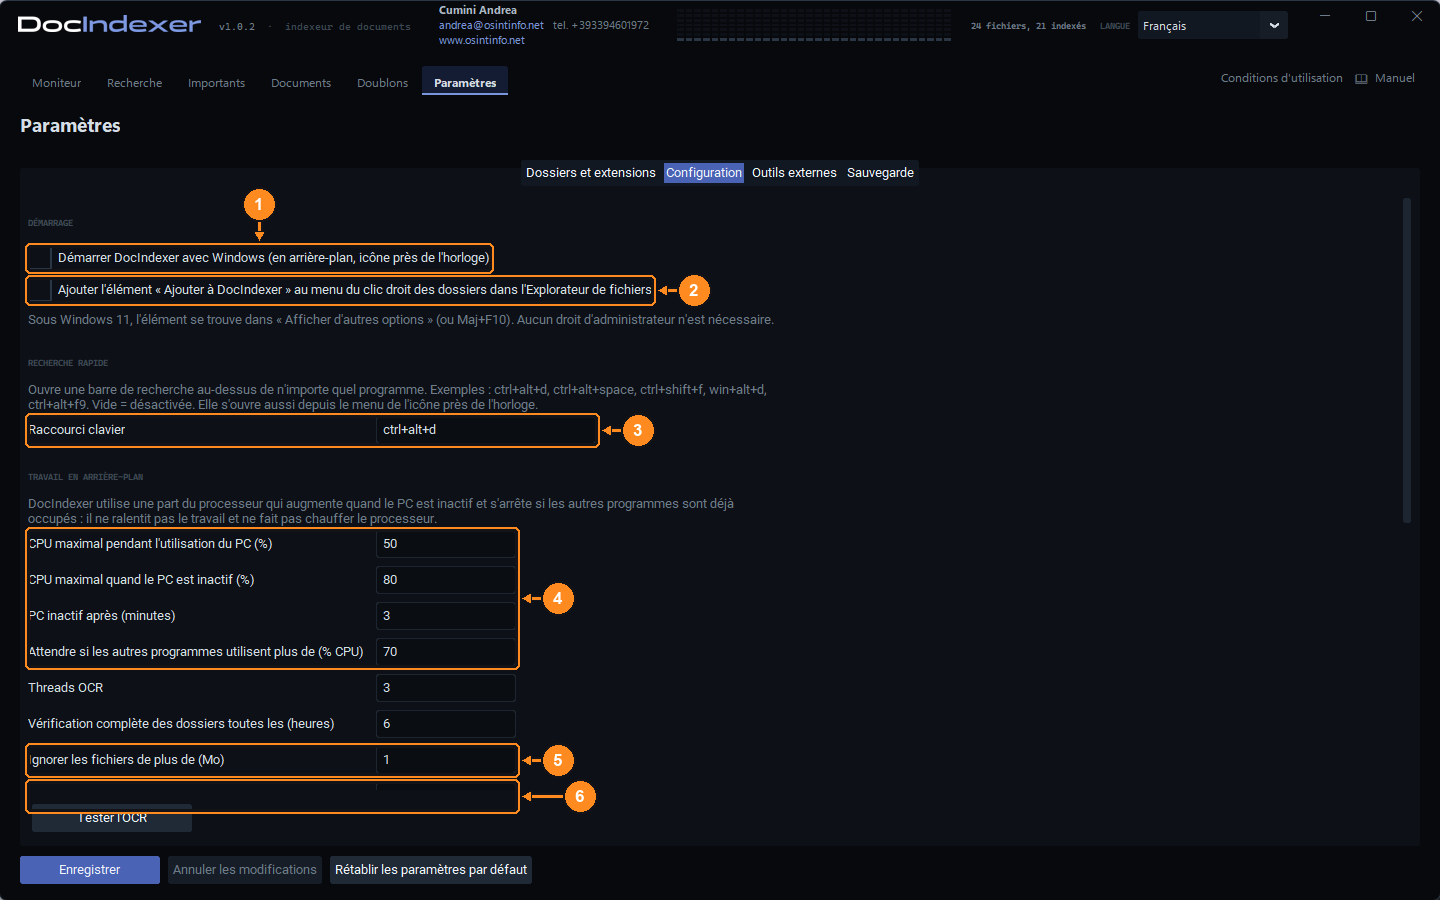
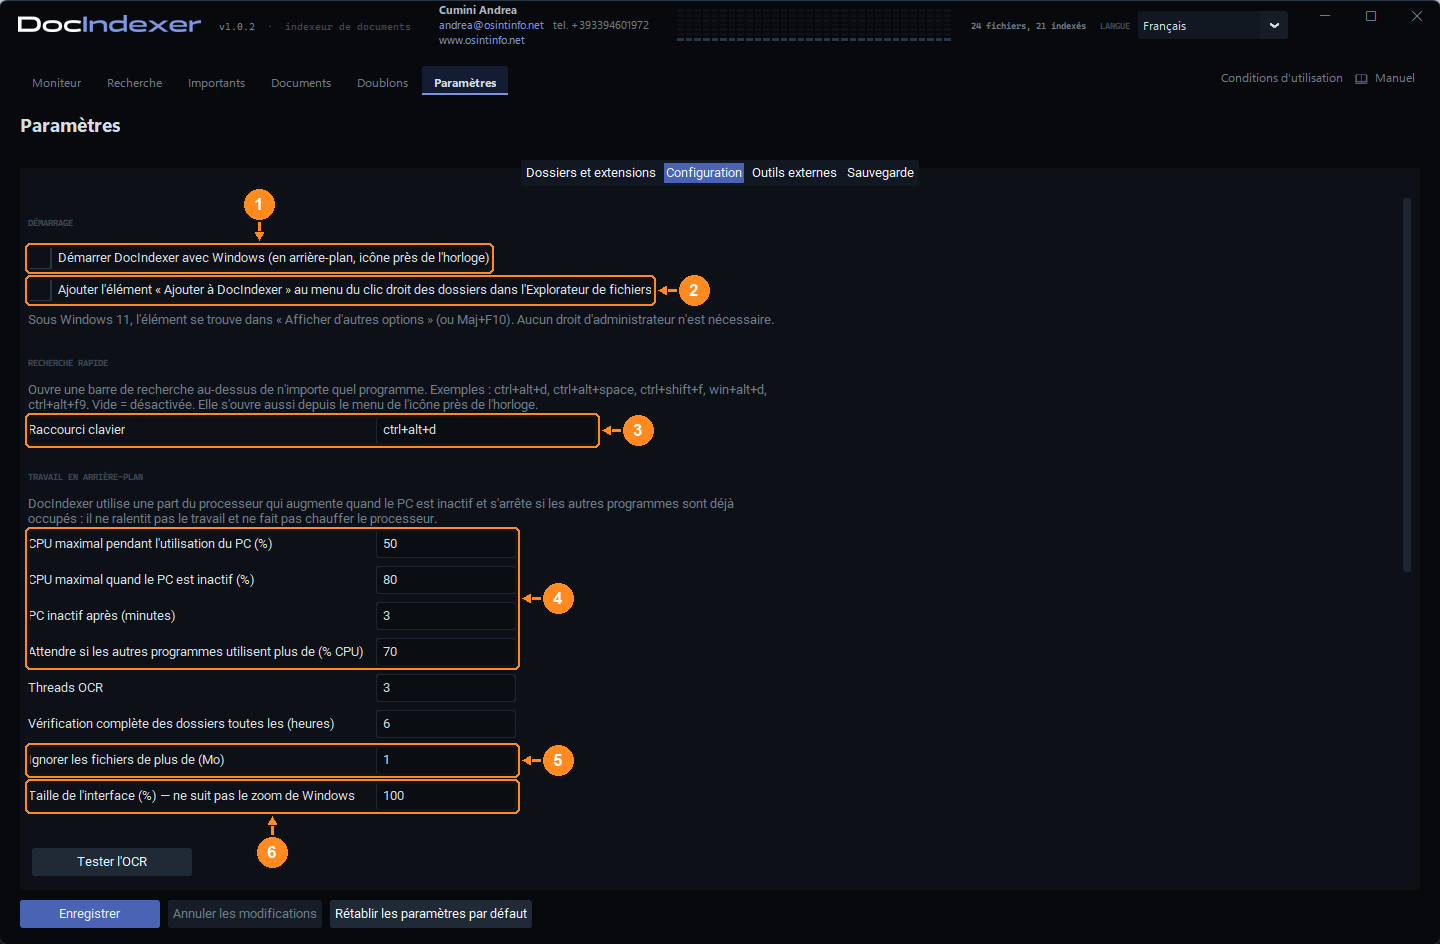
Manuale: riferimento 6 corretto negli screenshot Configurazione (finestra allungata finché le ultime righe si vedono)
Claude-Session: https://claude.ai/code/session_01NpqK2SdPAmhequy28ww3XP

diff --git a/scripts/make_manual_shots.py b/scripts/make_manual_shots.py
@@ -241,7 +241,7 @@ from PIL import Image, ImageGrab  # noqa: E402
 from docindexer import daemon_ui, gui, manual, quick, saved_ui, shellmenu, welcome  # noqa: E402
 from docindexer.i18n import LANGUAGES, tr  # noqa: E402
 from docindexer.regexlib import RegexEditor  # noqa: E402
-from manual_callouts import BG, CALLOUTS, PAD, draw, rects  # noqa: E402  (frecce e numeri sugli screenshot)
+from manual_callouts import BG, CALLOUTS, PAD, draw, overflow, rects, visible  # noqa: E402  (frecce e numeri sugli screenshot)
 
 # solo per questo profilo di prova: nessun effetto su Windows né sul DocIndexer già aperto
 daemon_ui.set_autostart = lambda enabled: True
@@ -289,6 +289,22 @@ def grab(win, path: Path, widgets=None, marks=None) -> None:
     path.parent.mkdir(parents=True, exist_ok=True)
     img.convert("RGB").save(path, optimize=True)
     print("  ", path.relative_to(OUT.parent.parent) if OUT.parent.parent in path.parents else path, flush=True)
+
+
+def fit(win, widgets) -> str:
+    """Allunga la finestra (fino all'altezza dello schermo) finché i widget non sono più tagliati dal loro
+    riquadro scorrevole. Restituisce la geometria di prima, da rimettere dopo lo screenshot."""
+    old = win.tk.call("wm", "geometry", win._w)
+    max_h = win.winfo_screenheight() - 60
+    for _ in range(8):
+        win.update_idletasks()
+        win.update()
+        over = max((overflow(w) for w in widgets if w is not None and visible(w)), default=0)
+        h = min(win.winfo_height() + over + 24, max_h)
+        if over <= 0 or h <= win.winfo_height():
+            break
+        win.tk.call("wm", "geometry", win._w, f"{win.winfo_width()}x{h}+0+0")
+    return old
 
 
 def front(win) -> None:
@@ -503,7 +519,18 @@ class Shots:
                           ("14-settings-tools", "Strumenti esterni"), ("15-settings-backup", "Backup")):
             st.tabs.set(tr(tab))
             yield 2.5 if tab == "Strumenti esterni" else 1
+            old = None
+            if tab == "Configurazione":       # le ultime righe del modulo devono vedersi intere
+                try:
+                    rows = [w for t in CALLOUTS[name](self, app) for w in (t if isinstance(t, list) else [t])]
+                    old = fit(app, rows)
+                except Exception:  # noqa: BLE001
+                    traceback.print_exc()
+                yield 1
             self.shot(app, name)
+            if old:
+                app.tk.call("wm", "geometry", app._w, old)
+                yield 0.5
         app.show("monitor")
 
         # --- ricerca rapida

diff --git a/scripts/manual_callouts.py b/scripts/manual_callouts.py
@@ -39,6 +39,18 @@ def visible(w) -> bool:
         return False
 
 
+def overflow(w) -> int:
+    """Di quanti pixel w esce (sopra o sotto) dalla parte visibile del riquadro scorrevole che lo contiene; 0 se si vede tutto."""
+    c = w.master
+    while c is not None and not isinstance(c, tk.Canvas):
+        c = c.master
+    if c is None:
+        return 0
+    top, bottom = w.winfo_rooty(), w.winfo_rooty() + w.winfo_height()
+    ctop, cbottom = c.winfo_rooty(), c.winfo_rooty() + c.winfo_height()
+    return max(0, bottom - cbottom, ctop - top)
+
+
 def T(root, key, nth=0, mode="eq", up=0, cls=ctk.CTkBaseClass, raw=False):
     """Widget CTk visibile (della classe cls) il cui testo è tr(key) (mode: eq, prefix, contains).
     raw=True: key è già il testo da cercare (per i testi che non passano da tr, come i termini d'uso)."""
@@ -234,7 +246,7 @@ def rects(targets, x0, y0, size):
     out = []
     for t in targets:
         group = [w for w in (t if isinstance(t, (list, tuple)) else [t]) if w is not None]
-        group = [w for w in group if visible(w)]
+        group = [w for w in group if visible(w) and not overflow(w)]   # tagliati dallo scorrimento: no
         if not group:
             out.append(None)
             continue
